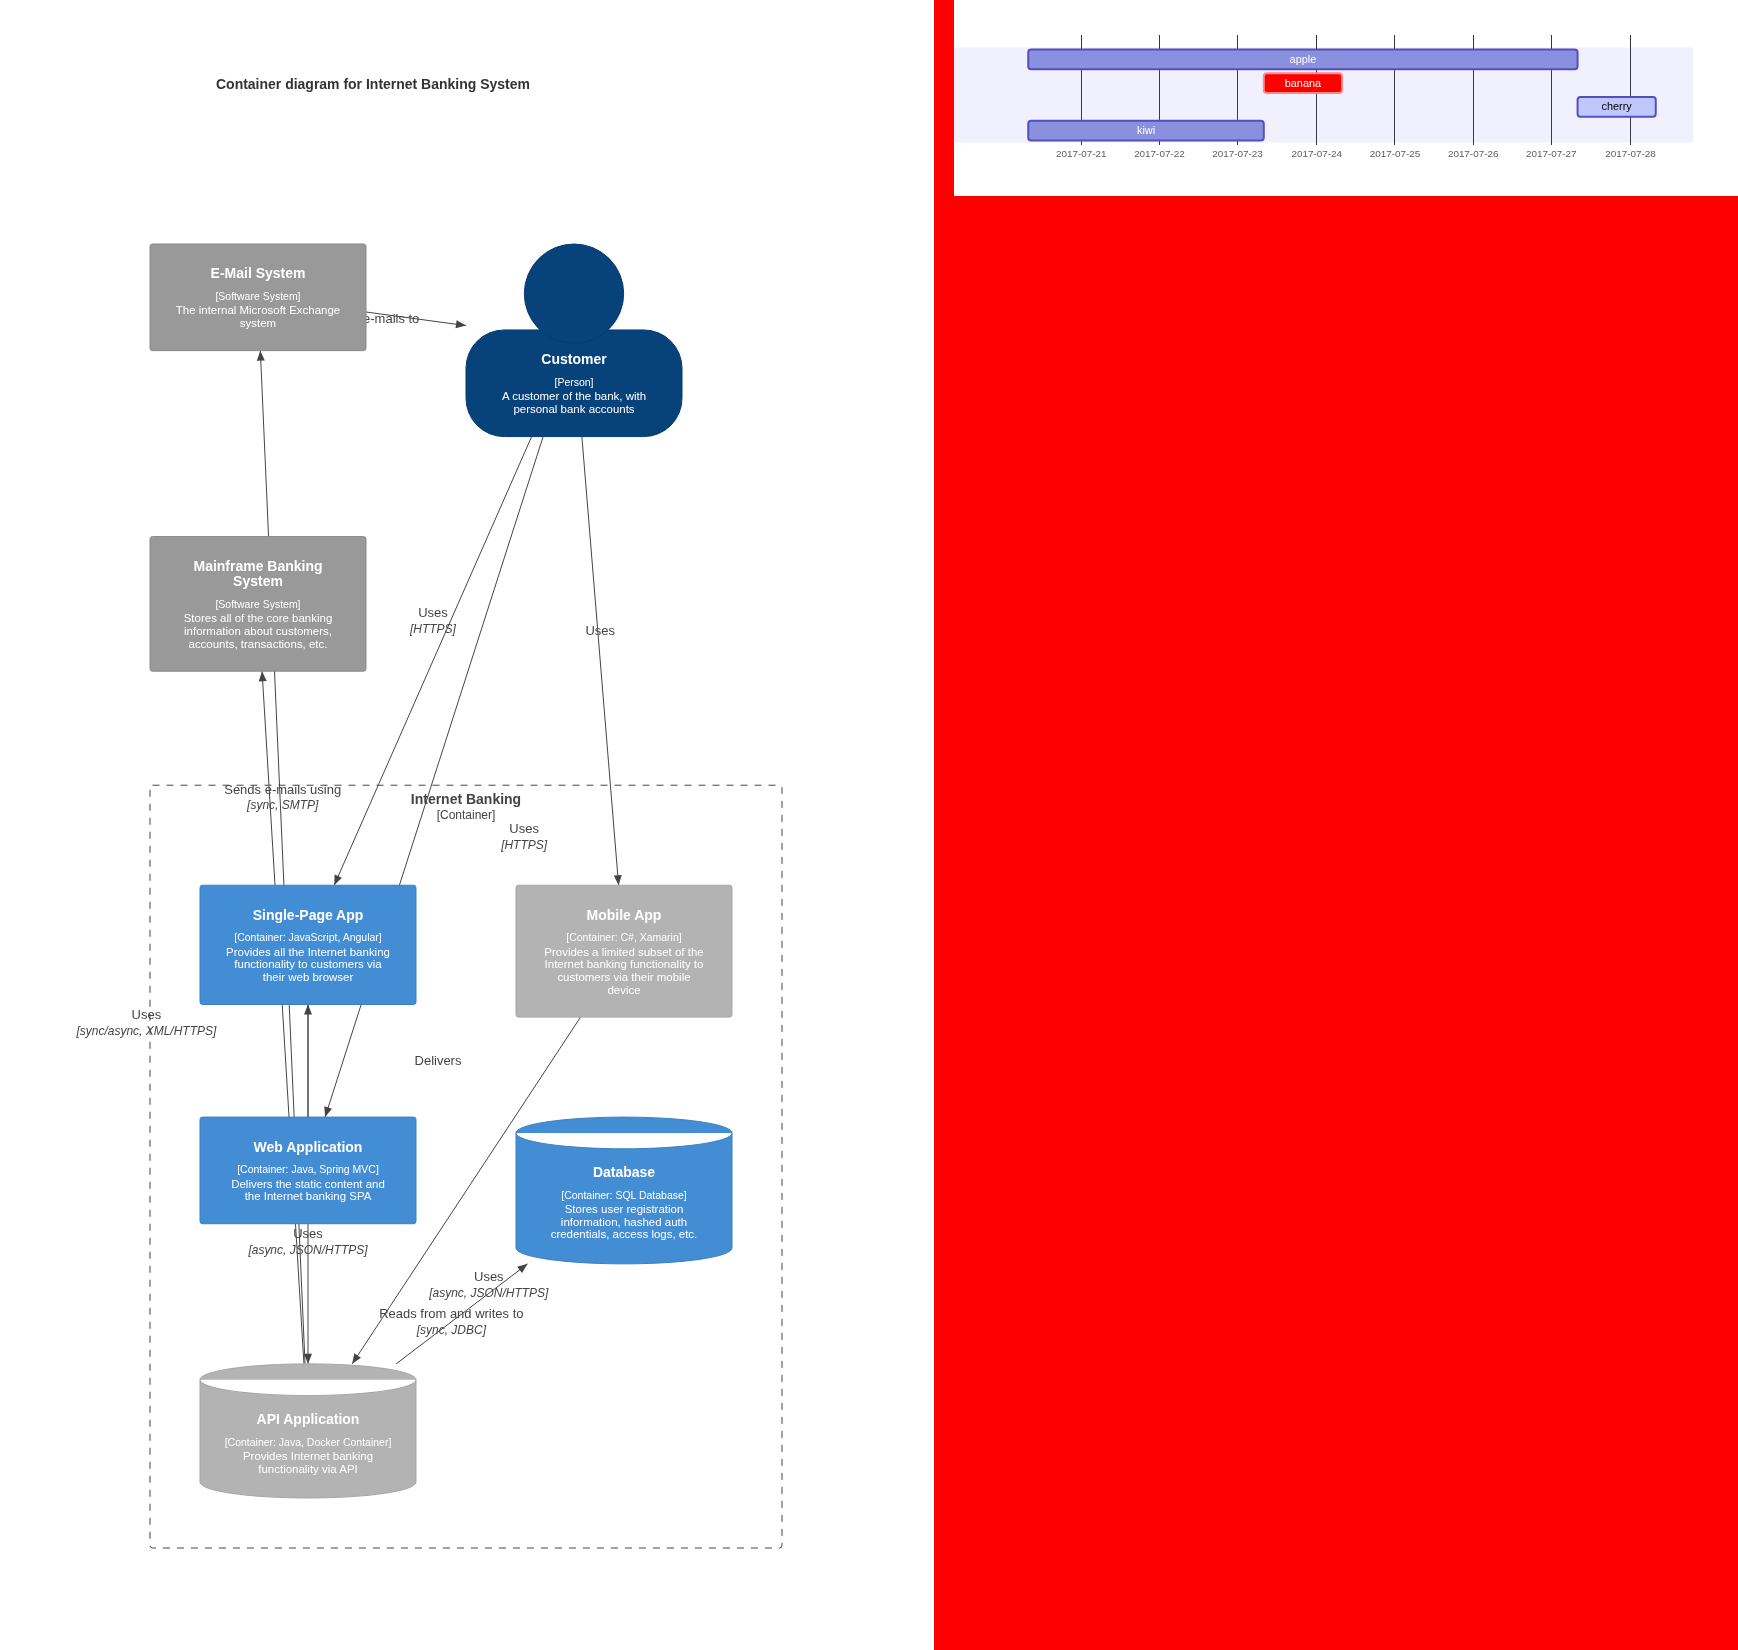
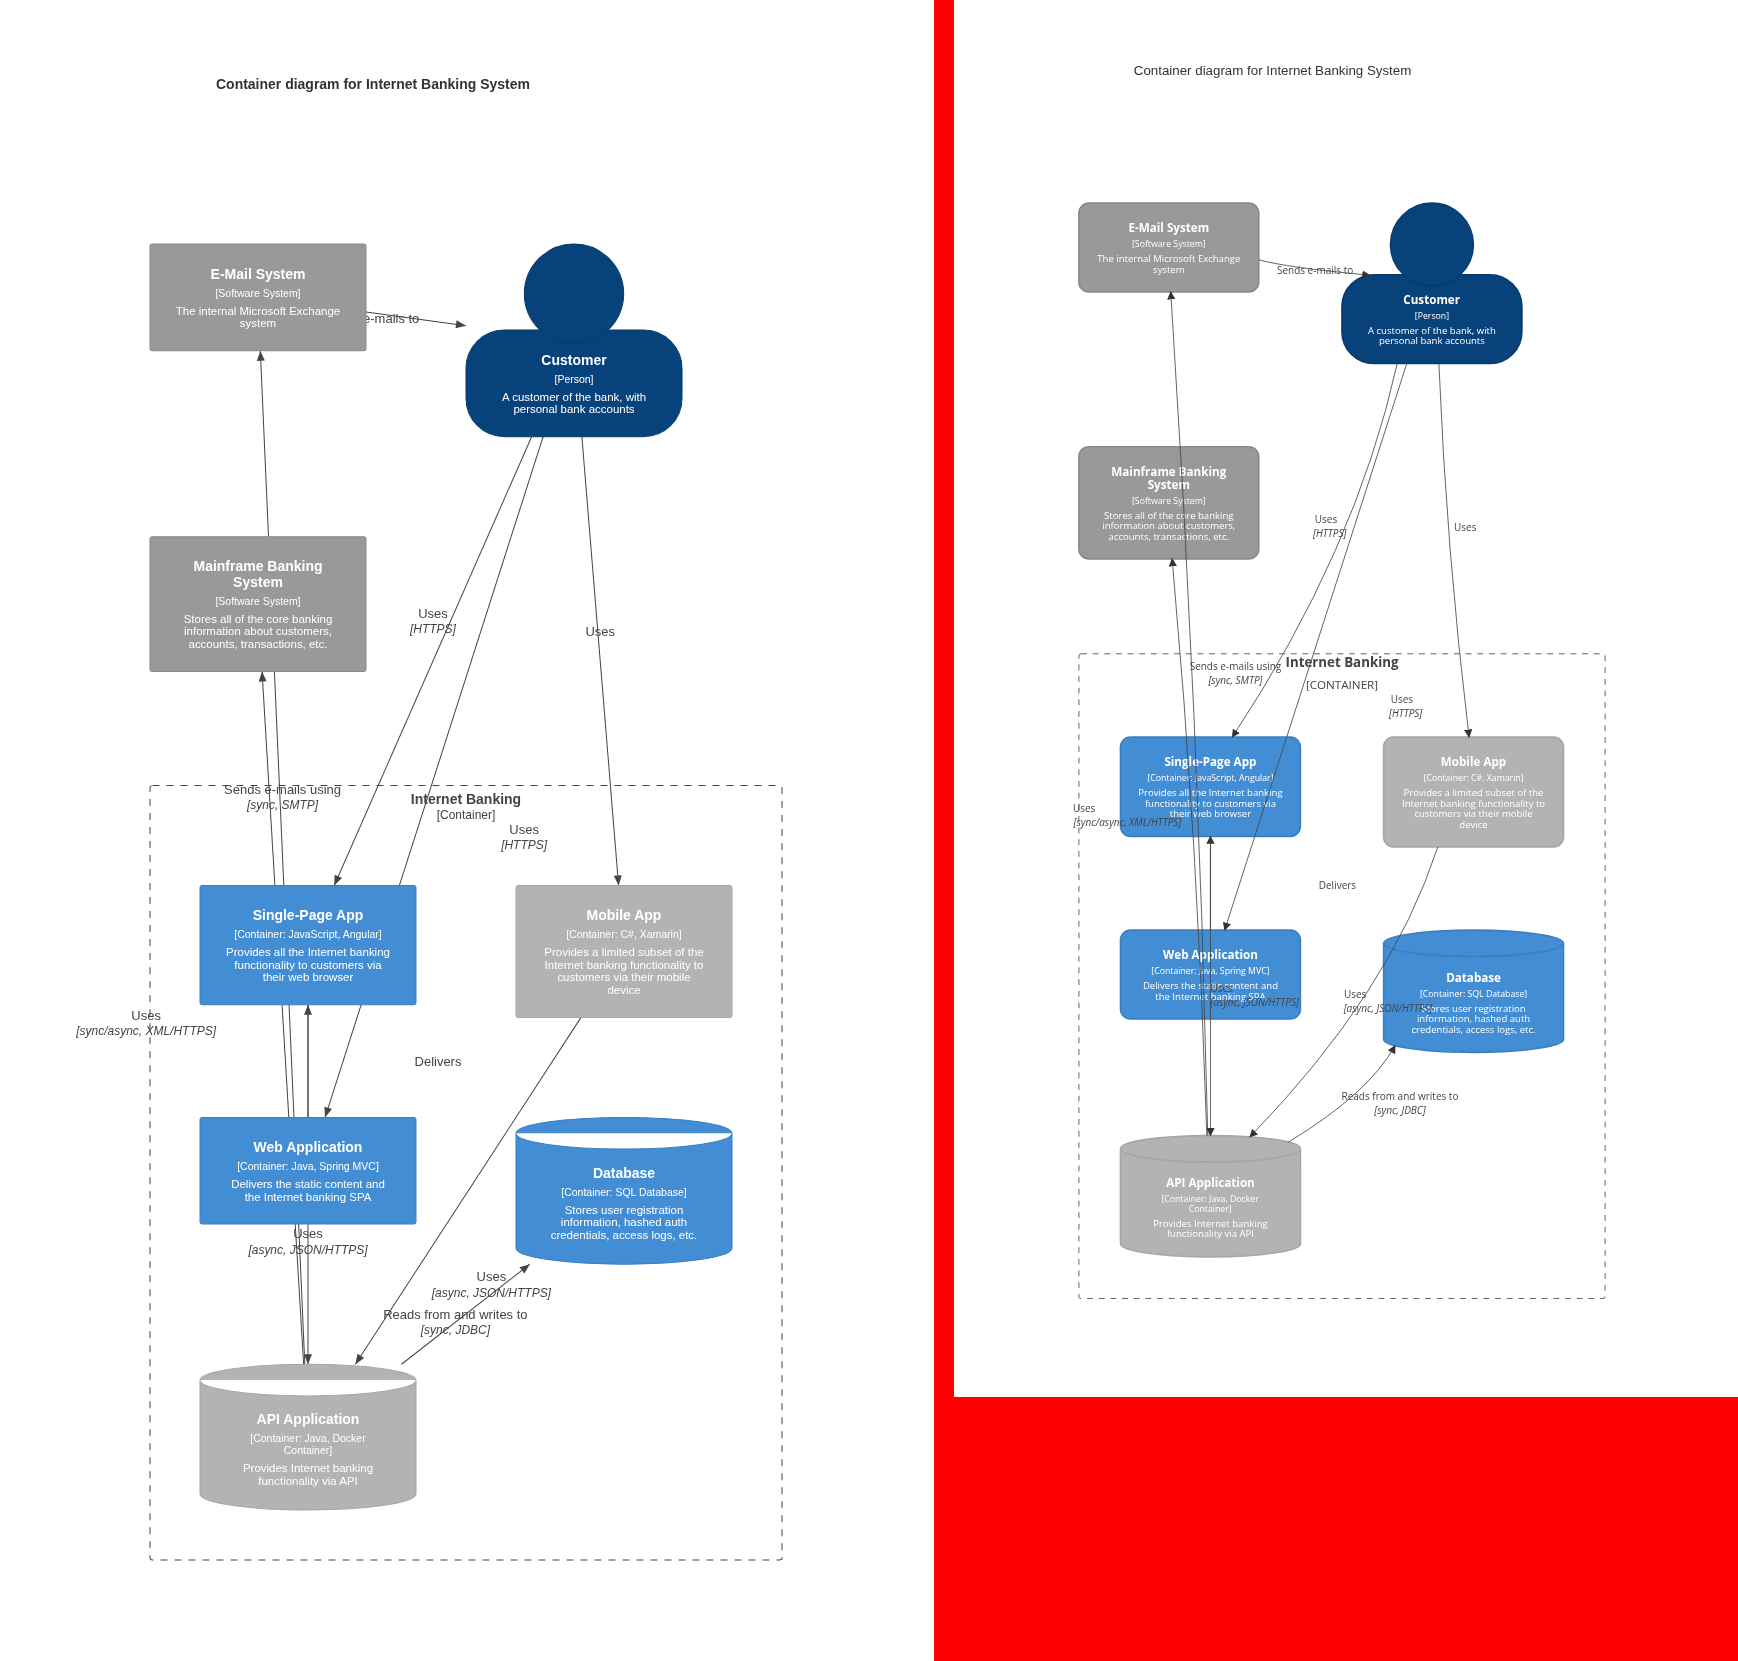
c4: bend relations around boxes they would cross, keep labels on top and clear of boxes, grow viewBox for offset labels

diff --git a/src/d_c4.c b/src/d_c4.c
@@ -459,12 +459,38 @@ DIAG_FN(c4_render) {
             if (f != NONE && ((g.efrom[e] == f && g.eto[e] == t) || (g.efrom[e] == t && g.eto[e] == f))) rst[e] = &rs.v[i];
         }
     double *lbw = ANEW(a, double, g.ne + 1), *lbh = ANEW(a, double, g.ne + 1);
-    if (!lbw || !lbh) return CMM_ERR_NOMEM;
+    double *ep = ANEW(a, double, 6 * (g.ne + 1)); /* x0 y0 qx qy x1 y1: quadratic bend that clears other boxes */
+    if (!lbw || !lbh || !ep) return CMM_ERR_NOMEM;
     for (size_t e = 0; e < g.ne; e++) {
         int32_t f = g.efrom[e], t = g.eto[e];
-        double x0, y0, x1, y1;
-        rclip(g.nx[f], g.ny[f], g.nw[f], g.nh[f], g.nx[t], g.ny[t], &x0, &y0);
-        rclip(g.nx[t], g.ny[t], g.nw[t], g.nh[t], g.nx[f], g.ny[f], &x1, &y1);
+        double sx0, sy0, sx1, sy1;
+        rclip(g.nx[f], g.ny[f], g.nw[f], g.nh[f], g.nx[t], g.ny[t], &sx0, &sy0);
+        rclip(g.nx[t], g.ny[t], g.nw[t], g.nh[t], g.nx[f], g.ny[f], &sx1, &sy1);
+        double sl = hypot(sx1 - sx0, sy1 - sy0), snx = sl > 0 ? -(sy1 - sy0) / sl : 0, sny = sl > 0 ? (sx1 - sx0) / sl : 1;
+        double bestc = HUGE_VAL, *E = ep + 6 * e;
+        for (int k = 0; k <= 12; k++) {
+            double off = (k + 1) / 2 * 40.0 * (k % 2 ? 1 : -1) * (k ? 1 : 0);
+            double qx = (g.nx[f] + g.nx[t]) / 2 + snx * off, qy = (g.ny[f] + g.ny[t]) / 2 + sny * off, c[6];
+            rclip(g.nx[f], g.ny[f], g.nw[f], g.nh[f], k ? qx : g.nx[t], k ? qy : g.ny[t], &c[0], &c[1]);
+            rclip(g.nx[t], g.ny[t], g.nw[t], g.nh[t], k ? qx : g.nx[f], k ? qy : g.ny[f], &c[4], &c[5]);
+            c[2] = k ? 2 * qx - (c[0] + c[4]) / 2 : (c[0] + c[4]) / 2, c[3] = k ? 2 * qy - (c[1] + c[5]) / 2 : (c[1] + c[5]) / 2;
+            double cost = fabs(off);
+            for (int i = 1; i < 32; i++) {
+                double u = i / 32.0, w0 = (1 - u) * (1 - u), w1 = 2 * u * (1 - u), w2 = u * u;
+                double px = w0 * c[0] + w1 * c[2] + w2 * c[4], py = w0 * c[1] + w1 * c[3] + w2 * c[5];
+                for (size_t v = 0; v < g.nn; v++)
+                    if ((int32_t)v != f && (int32_t)v != t && fabs(px - g.nx[v]) < g.nw[v] / 2 + 6 && fabs(py - g.ny[v]) < g.nh[v] / 2 + 6) cost += 60;
+                for (size_t q = 0; q < e; q++) {
+                    const double *Q = ep + 6 * q;
+                    for (int j = 1; j < 16; j++) {
+                        double uj = j / 16.0, a0 = (1 - uj) * (1 - uj), a1 = 2 * uj * (1 - uj), a2 = uj * uj;
+                        if (hypot(a0 * Q[0] + a1 * Q[2] + a2 * Q[4] - px, a0 * Q[1] + a1 * Q[3] + a2 * Q[5] - py) < 10) cost += 6;
+                    }
+                }
+            }
+            if (cost < bestc) bestc = cost, memcpy(E, c, sizeof c);
+        }
+        double x0 = E[0], y0 = E[1], x1 = E[4], y1 = E[5];
         bb_add(&bb, x0, y0, x0, y0), bb_add(&bb, x1, y1, x1, y1);
         double lw;
         unsigned ln;
@@ -479,7 +505,8 @@ DIAG_FN(c4_render) {
             for (size_t oi = 0; oi < countof(OS); oi++)
                 for (size_t ti = 0; ti < countof(TS); ti++) {
                     double off = OS[oi] * (fabs(nx) > fabs(ny) ? lw / 2 + 6 : lh / 2 + 4);
-                    double cx = x0 + (x1 - x0) * TS[ti] + nx * off, cy = y0 + (y1 - y0) * TS[ti] + ny * off;
+                    double u = TS[ti], w0 = (1 - u) * (1 - u), w1 = 2 * u * (1 - u), w2 = u * u;
+                    double cx = w0 * x0 + w1 * E[2] + w2 * x1 + nx * off, cy = w0 * y0 + w1 * E[3] + w2 * y1 + ny * off;
                     double ax0 = cx - lw / 2 - 3, ax1 = cx + lw / 2 + 3, ay0 = cy - lh / 2, ay1 = cy + lh / 2, sc = 0;
                     for (size_t v = 0; v < g.nn; v++) {
                         double ox = fmin(ax1, g.nx[v] + g.nw[v] / 2) - fmax(ax0, g.nx[v] - g.nw[v] / 2);
@@ -497,6 +524,17 @@ DIAG_FN(c4_render) {
                 }
             lbw[e] = lw, lbh[e] = lh;
             g.elx[e] = bx + (rst[e] ? rst[e]->ox : 0), g.ely[e] = by + (rst[e] ? rst[e]->oy : 0);
+            for (int it = 0; it < 3 && rst[e]; it++) /* a user offset that lands on a box: push the label clear */
+                for (size_t v = 0; v < g.nn; v++) {
+                    double hx = g.nw[v] / 2 + lw / 2 + 3, hy = g.nh[v] / 2 + lh / 2 + 2;
+                    double dx = g.elx[e] - g.nx[v], dy = g.ely[e] - g.ny[v];
+                    if (fabs(dx) >= hx || fabs(dy) >= hy) continue;
+                    double px = (dx < 0 ? -hx : hx) - dx, py = (dy < 0 ? -hy : hy) - dy;
+                    if (fabs(px) < fabs(py)) g.elx[e] += px; else g.ely[e] += py;
+                }
+            /* deviate from mermaid: keep user-offset labels and bent edges inside the viewBox */
+            bb_add(&bb, g.elx[e] - lw / 2, g.ely[e] - lh / 2 - 4, g.elx[e] + lw / 2, g.ely[e] + lh / 2);
+            bb_add(&bb, (x0 + x1) / 4 + E[2] / 2, (y0 + y1) / 4 + E[3] / 2, (x0 + x1) / 4 + E[2] / 2, (y0 + y1) / 4 + E[3] / 2);
         }
         (void)lw; /* mermaid does not grow the viewBox for relation labels */
     }
@@ -518,24 +556,19 @@ DIAG_FN(c4_render) {
     }
     for (size_t e = 0; e < g.ne; e++) {
         int32_t f = g.efrom[e], t = g.eto[e];
-        double P[4];
-        rclip(g.nx[f], g.ny[f], g.nw[f], g.nh[f], g.nx[t], g.ny[t], &P[0], &P[1]);
-        rclip(g.nx[t], g.ny[t], g.nw[t], g.nh[t], g.nx[f], g.ny[f], &P[2], &P[3]);
-        bool lc = rst[e] && color_ok(rst[e]->line), tc = rst[e] && color_ok(rst[e]->text);
+        (void)f, (void)t;
+        const double *E = ep + 6 * e;
+        double P[4] = {E[0], E[1], E[4], E[5]}, Q0[2] = {E[2], E[3]};
+        bool bent = fabs(E[2] - (E[0] + E[4]) / 2) + fabs(E[3] - (E[1] + E[5]) / 2) > 0.5;
+        bool lc = rst[e] && color_ok(rst[e]->line);
         if (lc) { buf_lit(out, "<g class=\"crc\" stroke=\""); put_attr(out, rst[e]->line); buf_lit(out, "\" fill=\""); put_attr(out, rst[e]->line); buf_lit(out, "\">"); }
         buf_lit(out, "<path class=\"cr\"");
-        buf_lit(out, " d=\"M"); dg_pt(out, P[0], P[1]); buf_ch(out, 'L'); dg_pt(out, P[2], P[3]); buf_lit(out, "\"/>");
-        arrowhead(out, P + 2, P);
-        if (cr.v[e].bi) arrowhead(out, P, P + 2);
+        buf_lit(out, " d=\"M"); dg_pt(out, P[0], P[1]);
+        if (bent) { buf_ch(out, 'Q'); dg_pt(out, Q0[0], Q0[1]); buf_ch(out, ' '); } else buf_ch(out, 'L');
+        dg_pt(out, P[2], P[3]); buf_lit(out, "\"/>");
+        arrowhead(out, P + 2, bent ? Q0 : P);
+        if (cr.v[e].bi) arrowhead(out, P, bent ? Q0 : P + 2);
         if (lc) buf_lit(out, "</g>");
-        if (tc) { buf_lit(out, "<g fill=\""); put_attr(out, rst[e]->text); buf_lit(out, "\">"); }
-        Str l = g.elabel[e];
-        const char *nl = memchr(l.p, '\n', l.n);
-        Str l1 = nl ? (Str){.p = l.p, .n = (size_t)(nl - l.p)} : l;
-        double y = g.ely[e] - (nl ? 8 : 0);
-        dg_text(out, l1, 13, g.elx[e], y, "middle", tc ? "crl crx" : "crl");
-        if (nl) dg_text(out, (Str){.p = nl + 1, .n = l.n - (size_t)(nl + 1 - l.p)}, 12, g.elx[e], y + 16, "middle", tc ? "crt crx" : "crt");
-        if (tc) buf_lit(out, "</g>");
     }
     for (size_t v = 0; v < g.nn; v++) {
         const CInfo *c = &ci.v[v];
@@ -603,6 +636,17 @@ DIAG_FN(c4_render) {
             dg_text_lh(out, dw[v], 1.1 * C4_DF, cx, y + sec_h(dl, C4_DF) / 2, "middle", "cd");
         }
         buf_lit(out, "</g>");
+    }
+    for (size_t e = 0; e < g.ne; e++) { /* labels last so a user-offset label is never hidden under a box */
+        bool tc = rst[e] && color_ok(rst[e]->text);
+        if (tc) { buf_lit(out, "<g fill=\""); put_attr(out, rst[e]->text); buf_lit(out, "\">"); }
+        Str l = g.elabel[e];
+        const char *nl = memchr(l.p, '\n', l.n);
+        Str l1 = nl ? (Str){.p = l.p, .n = (size_t)(nl - l.p)} : l;
+        double y = g.ely[e] - (nl ? 8 : 0);
+        dg_text(out, l1, 13, g.elx[e], y, "middle", tc ? "crl crx" : "crl");
+        if (nl) dg_text(out, (Str){.p = nl + 1, .n = l.n - (size_t)(nl + 1 - l.p)}, 12, g.elx[e], y + 16, "middle", tc ? "crt crx" : "crt");
+        if (tc) buf_lit(out, "</g>");
     }
     buf_lit(out, "</svg>\n");
     return out->oom ? CMM_ERR_NOMEM : CMM_OK;
